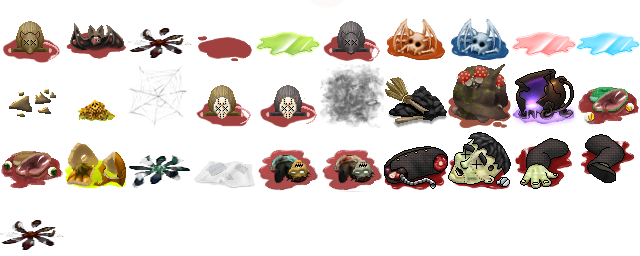
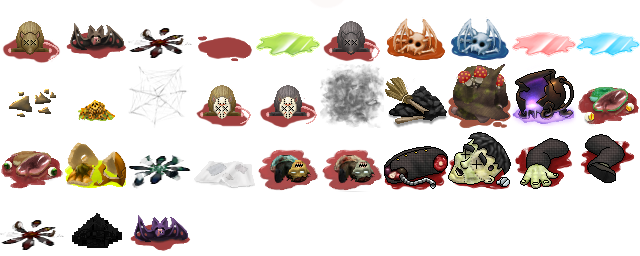
ADD Skeleton bat corpse

Changed region(s): [[0.0938, 0.8438, 0.3125, 1.0]]

diff --git a/src/BatEntity.cpp b/src/BatEntity.cpp
@@ -20,7 +20,6 @@ BatEntity::BatEntity(float x, float y, EnumBatType batType, bool invocated)
   shadowFrame = 9;
   movingStyle = movFlying;
 
-  deathFrame = FRAME_CORPSE_BAT;
   agonizingSound = SOUND_BAT_DYING;
   sprite.setOrigin(32.0f, 26.0f);
 
@@ -31,6 +30,7 @@ BatEntity::BatEntity(float x, float y, EnumBatType batType, bool invocated)
     meleeDamages = BAT_DAMAGES;
     bloodColor = BloodRed;
     dyingFrame = 8;
+    deathFrame = FRAME_CORPSE_BAT;
   }
 
   else // BatSkeleton
@@ -40,6 +40,7 @@ BatEntity::BatEntity(float x, float y, EnumBatType batType, bool invocated)
     meleeDamages = 8;
     bloodColor = BloodNone;
     dyingFrame = 18;
+    deathFrame = FRAME_CORPSE_BAT_SKELETON;
   }
 }
 

diff --git a/src/Constants.h b/src/Constants.h
@@ -20,7 +20,7 @@
 #include <string>
 
 const std::string APP_NAME =      "Witch Blast";
-const std::string APP_VERSION =   "0.4.6b";
+const std::string APP_VERSION =   "0.4.9";
 
 const std::string CONFIG_FILE =     "config.dat";
 const std::string SAVE_FILE =       "game.sav";
@@ -313,6 +313,7 @@ enum corpses_ressources{
   FRAME_CORPSE_FRANCKY_FOOT,
   FRAME_CORPSE_FLOWER_FIRE,
   FRAME_CORPSE_VAMPIRE,
+  FRAME_CORPSE_BAT_SKELETON,
 
   FRAME_CORPSE_KING_RAT,
   FRAME_CORPSE_GIANT_SLIME,
